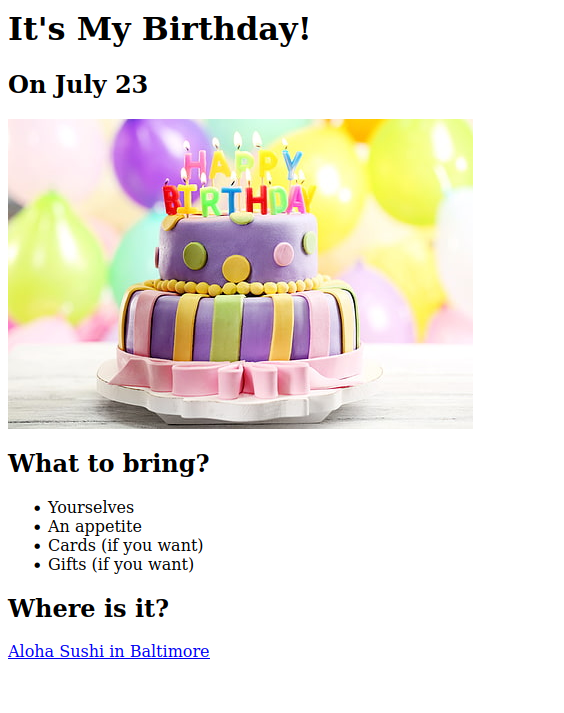
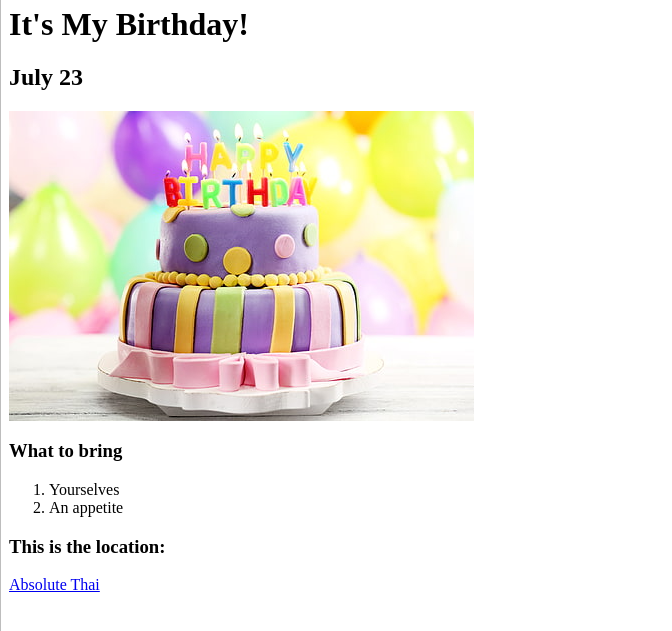
Add files via upload

diff --git a/index.html b/index.html
@@ -16,23 +16,34 @@ https://developer.mozilla.org/en-US/docs/Web/HTML/Element/img#attr-height -->
 
 <!DOCTYPE html>
 <html lang="en">
-<head>
-    <meta charset="UTF-8">
-    <meta name="viewport" content="width=device-width, initial-scale=1.0">
-    <title>Portfolio</title>
-</head>
-<body>
-    <h1>I am Benjamin</h1>
-    <h2>A programming student</h2>
+  <head>
+    <meta charset="UTF-8" />
+    <meta name="viewport" content="width=device-width, initial-scale=1.0" />
+    <title>My Portfolio</title>
+  </head>
+  <body>
+    <h1>Benjamin's Portfolio</h1>
+    <h2>I'm a web development student</h2>
     <hr />
-    <h3><a href="../2.4 Movie Ranking Project/index.html">Movie Ranking Project</a></h3>
-    <img height="200" src="./assets/images/movie_ranks.png" alt="Screenshot of my movie ranking project">
-    <hr />
-    <h3><a href="../3.4 Birthday Invite Project/">Birthday Invite Project</a></h3>
-    <img src="assets/images/birthday.png" alt="Screenshot of my birthday invite project">
-    <hr />
-    <a href="./public/about.html">About me</a>
-    <a href="./public/contact.html">Contact me</a>
+    <img
+      src="./assets/images/birthday.png"
+      height="200"
+      alt="A screenshot of a birthday invitation website that I wrote"
+    />
 
-</body>
+    <a href="./public/birthday-invite.html">Birthday Invitation</a>
+
+    <img
+      src="./assets/images/movies.png"
+      height="200"
+      alt="A screenshot of a movie ranking website that I wrote"
+    />
+
+    <a href="./public/movie-ranking.html">Movies Ranked</a>
+
+    <hr />
+
+    <a href="./public/about.html">About</a>
+    <a href="./public/contact.html">Contact Me</a>
+  </body>
 </html>

diff --git a/public/birthday-invite.html b/public/birthday-invite.html
@@ -1,18 +1,17 @@
 <!-- This is one possible solution -->
 <h1>It's My Birthday!</h1>
-<h2>On the 12th May</h2>
+<h2>July 23</h2>
 
-<img src="https://raw.githubusercontent.com/appbrewery/webdev/main/birthday-cake3.4.jpeg"
-  alt="purple birthday cake with candles" />
+<img
+  src="https://raw.githubusercontent.com/appbrewery/webdev/main/birthday-cake3.4.jpeg"
+  alt="A colorful birthday cake with letter-shaped candles that spell out 'Happy Birthday"
+/>
 
-<h3>What to bring:</h3>
-<ul>
-  <li>Baloons (I love baloons)</li>
-  <li>Cake (I'm really good at eating)</li>
-  <li>An appetite (There will be lots of food)</li>
-</ul>
+<h3>What to bring</h3>
+<ol>
+  <li>Yourselves</li>
+  <li>An appetite</li>
+</ol>
 
-<h3>This is where you need to go:</h3>
-<a
-  href="https://www.google.com/maps/@35.7040744,139.5577317,3a,75y,289.6h,87.01t,0.72r/data=!3m6!1e1!3m4!1sgT28ssf0BB2LxZ63JNcL1w!2e0!7i13312!8i6656">Google
-  map link</a>
+<h3>This is the location:</h3>
+<a href="https://www.absolutethai-sushi.com/">Absolute Thai</a>

diff --git a/public/movie-ranking.html b/public/movie-ranking.html
@@ -1,9 +1,15 @@
-<h1>The Best Movies According to Angela</h1>
-<h2>My top 3 movies of all-time.</h2>
+<h1>My Current List of Favorite Movies</h1>
+<h2>The Top Three</h2>
 <hr />
-<h3>Spirited Away</h3>
-<p>This is my favourite anime. I love the beautiful images.</p>
-<h3>Ex Machina</h3>
-<p>Really cool sci-fi movie.</p>
-<h3>Drive</h3>
-<p>Super beautiful film. Really artistic.</p>
+
+<h3>The Hot Chick</h3>
+<p>A 2002 comedy starring Rob Schneider. Very funny.</p>
+
+<h3>Magnolia</h3>
+<p>Released in 1999. Really catches the spirit of the end of the 90s I feel.</p>
+
+<h3>Lord Of The Rings</h3>
+<p>
+  That was a great time for fantasy movies, and this was probably the biggest. I
+  believe it came out in 2001.
+</p>

diff --git a/public/about.html b/public/about.html
@@ -1,3 +1,4 @@
 <h1>About Me</h1>
 <p>My name is Benjamin and I am a web development student</p>
 
+<p>Currently I know html, some css, and python</p>

diff --git a/public/contact.html b/public/contact.html
@@ -1,2 +1,2 @@
 <h1>Contact Me</h1>
-<p>Email: ben_dcm@yahoo.com</p>
+<p>emal: ben_dcm@yahoo.com</p>
